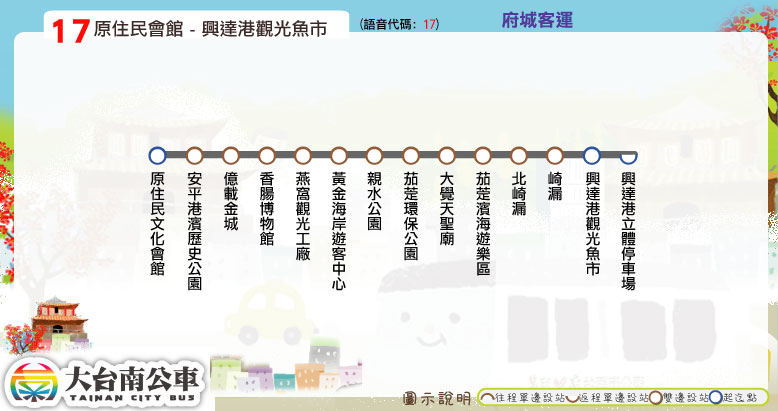
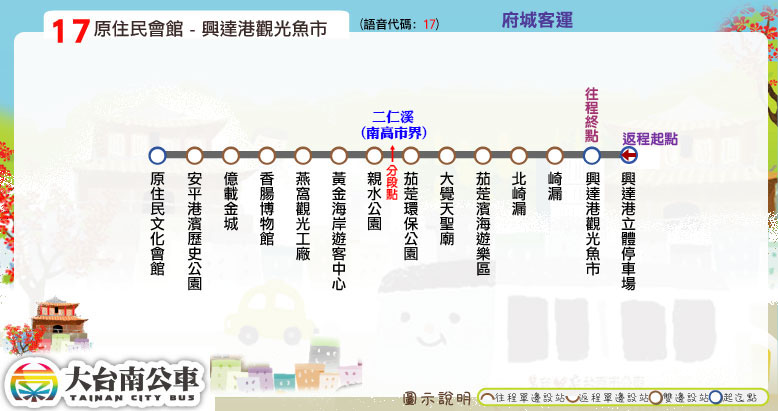
更新8035時刻表；修正17路票價

Changed region(s): [[0.4627, 0.2628, 0.5553, 0.4964], [0.7712, 0.3212, 0.8946, 0.4088], [0.7404, 0.2044, 0.7712, 0.3504]]

diff --git a/tools/web_model.js b/tools/web_model.js
@@ -223,27 +223,36 @@ function block_fare(section_type, additional_message, section_point){
 				<tr>\
 					<td><b>投現</b></td>\
 					<td>');
-		if(section_type==2) document.write('30');
-		else document.write('36'); // doubling
+
+		//----- 二段票現金收費價格歧異 -----//
+		if( Math.floor(section_type/10)==0 ) document.write('30'); // section_type = 2。e.g. 1、10、11路
+		else document.write('36'); // section_type = 12、22，分別為17及99路
+
 		document.write('</td><td>18</td>\
 				</tr>\
 				<tr>\
 					<td><b>電子票證</b></td>\
-					<td>27</td><td>18</td>\
+					<td>');
+
+		//----- 二段票電子票證收費價格歧異 -----//
+		if( Math.floor(section_type/10)==1 ) document.write('36'); // section_type = 12。e.g. 17路
+		else document.write('27'); // section_type = 2、22，分別為1、10、11路及99路
+
+		document.write('</td><td>18</td>\
 				</tr>\
 			</table>');
 	}
 	document.write('<p>　</p>');
-	if(section_type==10 || section_type==20){
+	if(section_type==10 || section_type==20){ // section_type = 10 is highway bus; section_type = 20 is Kaohsiung City Bus
 		document.write('<h3><font color="red">本路線非大台南公車，無法享有八公里免費及轉乘優惠</font></h3>\
 			<h2>使用電子票證時，上下車皆須刷卡</h2><br />');
-		if(section_type==20) document.write('<h1>本路線使用一卡通收費最高上限為60元</h1>');
-		else document.write('<h3>本路線票價已採用2015.2.14最新公路總局公告之費率計算</h3>');
+		if(section_type==20) document.write('<h1>本路線使用一卡通收費最高上限為60元</h1>'); // Kaohsiung City Bus
+		else document.write('<h3>本路線票價已採用2015.2.14最新公路總局公告之費率計算</h3>'); // highway bus
 	}
 	else{
-		if(section_type==0) document.write(MeteredMSG);
-		else document.write(CitybusMSG);
-		document.write(PromotionMSG);
+		if(section_type==0) document.write(MeteredMSG); // Tainan Bus and charge by meter
+		else document.write(CitybusMSG); // Tainan Bus and charge by section
+		document.write(PromotionMSG); // print the promotion message of Tainan Bus
 	}
 	if(additional_message) document.write(additional_message); // print additional message
 	document.write('<p>　</p></div>\

diff --git a/route/fare_and_time/highway_bus_8035.js b/route/fare_and_time/highway_bus_8035.js
@@ -20,7 +20,8 @@ highway_bus_8035_fare = [
 // [time, other] or
 // [time, start_stop, end_stop, other]
 highway_bus_8035_main_stop_name = ["南化","茄苳橋","內門","中埔頭","旗山北站","旗山轉運站"];
-highway_bus_8035_main_stop_time_consume = [0,10,30,35,45,50];
+highway_bus_8035_main_stop_time_consume = [0,10,30,35,40,45];
 highway_bus_8035_important_stop = [0, 2, 5]; // 南化, 內門, 旗山轉運站
-highway_bus_8035_time_go = [["06:35",2,5,['W']],["06:20"],["08:20"],["10:50"],["13:20"],["17:35"]];
-highway_bus_8035_time_return = [["07:30",['W']],["10:00"],["12:30"],["16:45"],["17:25"],["18:40"]];
+var start_stop = 2, end_stop = 5;
+highway_bus_8035_time_go = [["06:35",start_stop,end_stop,['S']],["06:45",start_stop,end_stop,['S']],["06:20"],["08:20"],["10:50"],["13:20"],["17:35"]];
+highway_bus_8035_time_return = [["06:30",end_stop,start_stop,['S']],["07:35",['S']],["10:05"],["12:35"],["16:50"],["17:30"],["18:45"]];

diff --git a/city_bus/city_bus_17.html b/city_bus/city_bus_17.html
@@ -18,8 +18,8 @@
 <script type="text/javascript">
 	block_header();
 	block_route_map(null);
-	block_route_info(route_interval,'府城客運','每小時1班，僅假日行駛','二段票<br />分段點：「親水公園」及<br />「茄萣環保公園」之間','http://2384.tainan.gov.tw:8080/AGPSRemoteQuery3/ajaxBus.jsp?pathId=10017&locale=zh_TW');
-	block_fare(2, null,'「親水公園」及「茄萣環保公園」之間');
+	block_route_info(route_interval,'府城客運','每小時1班，僅假日行駛','二段票 分段點：二仁溪(南高市界)','http://2384.tainan.gov.tw:8080/AGPSRemoteQuery3/ajaxBus.jsp?pathId=10017&locale=zh_TW');
+	block_fare(12, null,'二仁溪(南高市界)');
 	block_time_schedule('原住民文化會館','興達港觀光魚市','<h1><font color="red">僅假日行駛</font></h1>');
 	block_transfer(transfer_aboriginal_culture_center);
 	block_copyright();

diff --git a/highway_bus/highway_bus_8035.html b/highway_bus/highway_bus_8035.html
@@ -8,7 +8,7 @@
 	route_file_name = 'highway_bus_8035';
 	route_type = 'highway_bus';
 	route_interval = ['南化','內門','旗山'];
-	route_start_stop = '南化';
+	route_start_stop = '南化/內門';
 	route_end_stop = '旗山轉運站';
 </script>
 <link href="../css/radio_style.css" rel="stylesheet" />
@@ -26,7 +26,7 @@
 	block_route_map(null);
 	block_route_info(route_interval,'高雄客運','','里程計費','http://ibus.tbkc.gov.tw/bus/pda/businfo.aspx?Routeid=8035&GO_OR_BACK=2&Line=All&lang=Cht');
 	block_fare(20, null);
-	block_time_schedule(route_start_stop,route_end_stop,W_message);
+	block_time_schedule(route_start_stop,route_end_stop,S_message);
 	block_transfer(transfer_nanhua_district_office);
 	block_copyright();
 </script>

diff --git a/tools/msg.js b/tools/msg.js
@@ -5,6 +5,7 @@ TimeScheduleMSG = '<p><h2>除了起站為發車時間，其餘站點皆為預估
 W_message = '<font color="#0000FF">W</font>表示僅平日行駛';
 L_message = '<font color="#FF0000">L</font>表示低地板公車';
 H_message = '<font color="red">H</font>表示僅假日行駛';
+S_message = '<font color="green">S</font>表示僅上課日行駛，例假日、寒暑假停駛';
 copyrightMSG = '<p>Copyright (c) 2014 Tainan Bus for FUN. All rights reserved. | Contact with <a href="mailto:tainanbusforfun@outlook.com" rel="nofollow">administrator</a>.</p>';
 
 function Announcement(str){

diff --git a/tools/show_time_schedule_tool.js b/tools/show_time_schedule_tool.js
@@ -111,6 +111,8 @@ function get_special_tag(arr){ // add some tags of special events
 			special_event += '<font color="#0000FF">W</font>';
 		else if(arr[j]=='L' || arr[j]=='H') // use low floor bus or only drive on holiday
 			special_event += '<font color="#FF0000">' + arr[j] + '</font>';
+		else if(arr[j]=='S') // drive in school day
+			special_event += '<font color="green">' + arr[j] + '</font>';
 		else if(Array.isArray(arr[j])==true) // have offset since some important stop
 			offset = arr[j];
 		else if( !isNaN(arr[j]) ) skip_stop_array[count++] = arr[j];
